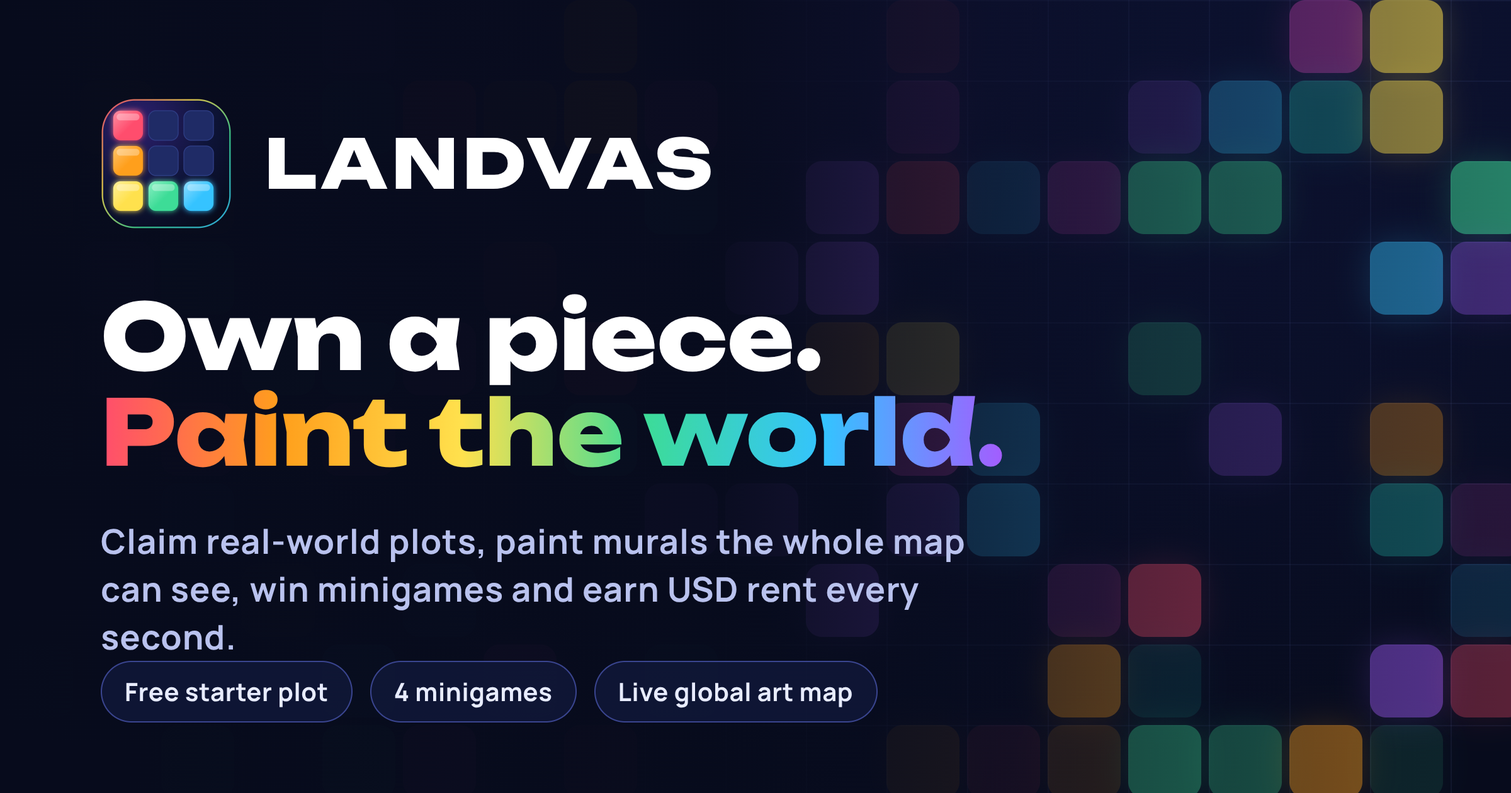
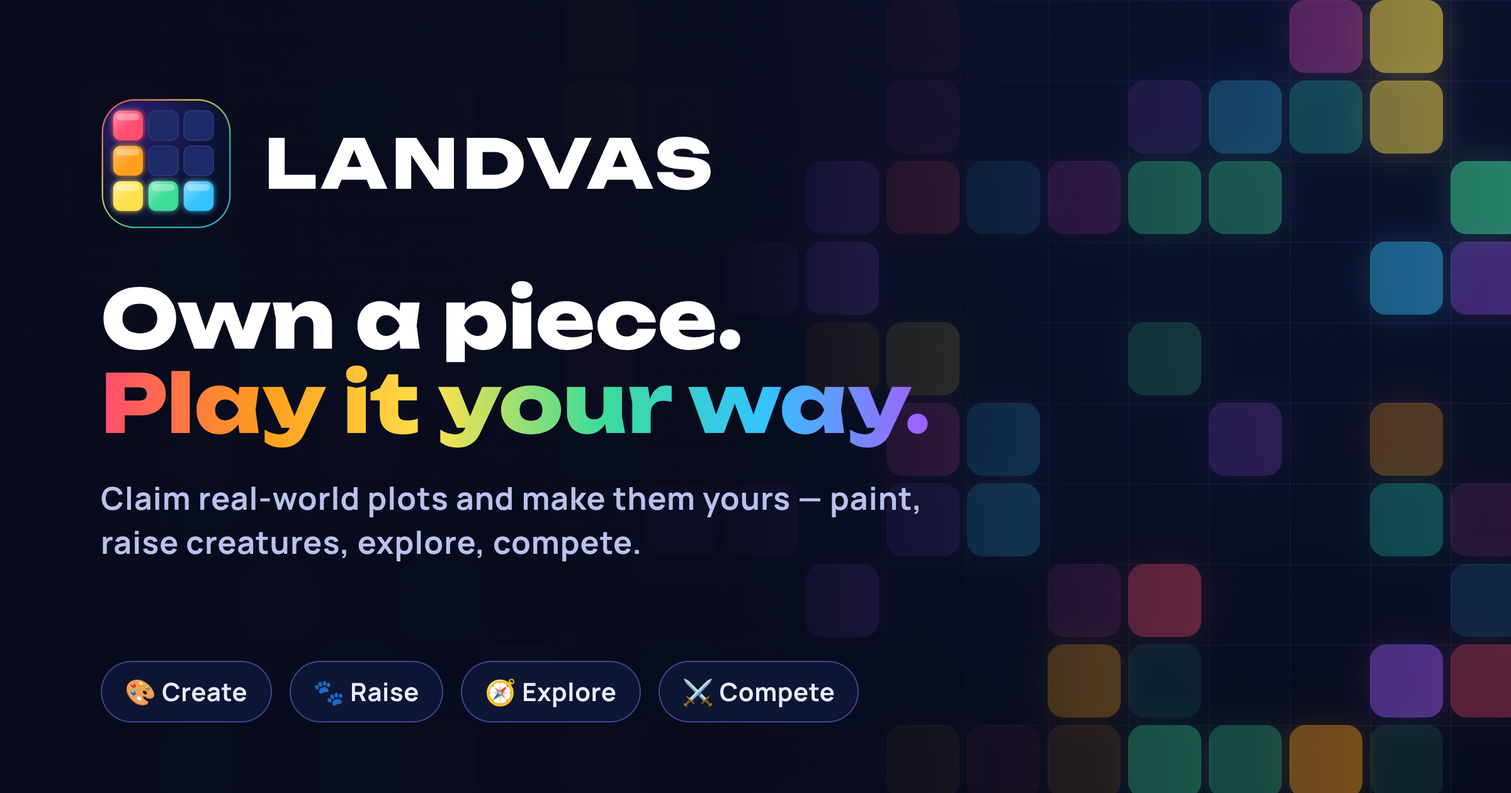
v0.24.1 rebrand: Own a piece. Play it your way. — a world-map game for every playstyle (creator, keeper, explorer, competitor, builder, socialite)
Claude-Session: https://claude.ai/code/session_01HBqLkZjhyC2XJFAdECqHWQ

Changed region(s): [[0.0625, 0.3405, 0.6875, 0.5881], [0.0625, 0.619, 0.6562, 0.8357], [0.0625, 0.8357, 0.5625, 0.8976]]

diff --git a/src/screens/Welcome.tsx b/src/screens/Welcome.tsx
@@ -2,7 +2,7 @@ import { useEffect, useRef, useState } from 'react';
 import { Link, useNavigate, useSearchParams } from 'react-router-dom';
 import { useQuery } from '@tanstack/react-query';
 import { AnimatePresence, motion } from 'motion/react';
-import { ArrowRight, Brush, Check, ChevronDown, CircleDollarSign, Eye, EyeOff, Gamepad2, Gift, Lightbulb, Mail, MapPinned, PartyPopper, Swords, Trophy, Users, Wand2 } from 'lucide-react';
+import { ArrowRight, Brush, Check, ChevronDown, CircleDollarSign, Eye, EyeOff, Gamepad2, Gift, Lightbulb, Mail, MapPinned, PartyPopper, PawPrint, Swords, Trophy, Users, Wand2 } from 'lucide-react';
 import { api } from '../backend/api';
 import { ArtMarquee, Earnings, HowItWorks, Minigames, Social, Footer } from '../home/HomePage';
 import { FAQ } from '../home/faq';
@@ -17,6 +17,7 @@ import type { PlotTypeId } from '../shared/grid';
 import { saveStorage } from '../lib/utils';
 import { pendingReferral } from '../social/referralStore';
 import { isNative } from '../native/native';
+import { PITCH, PLAYSTYLES, TAGLINE, TAGLINE_TEXT } from '../brand';
 
 /** A living canvas: plots claim themselves, fill with default designs and fuse into murals. */
 function LivingCanvas() {
@@ -99,7 +100,8 @@ const FEATURES = [
   { icon: Brush, color: '#FF4D6D', title: 'Paint with helpers', text: 'Brushes, layers and mirror mode, plus idea prompts, ready-made palettes, shade ramps and trace guides.' },
   { icon: Gamepad2, color: '#3DDC97', title: 'Eight minigames', text: 'Each plot hides a game. Clear rounds to earn Ink — the currency that buys the plots next door.' },
   { icon: Swords, color: '#FF9F1C', title: 'PvP minigames', text: 'Free head-to-head rounds against anonymous rivals for bonus Ink.' },
-  { icon: Wand2, color: '#7B5CFF', title: 'Murals across plots', text: 'Merge neighbouring plots and paint one continuous mural — up to thousands of plots wide.' },
+  { icon: PawPrint, color: '#3DDC97', title: 'Raise Inkborn', text: 'Draw a creature and it comes alive. Raise it in a woodland sanctuary, send it on jobs, and play games as it.' },
+  { icon: Wand2, color: '#7B5CFF', title: 'Grow your territory', text: 'Merge neighbouring plots into one giant mural or sanctuary — up to thousands of plots wide.' },
   { icon: CircleDollarSign, color: '#22C7B5', title: 'Rent every second', text: 'Your land earns USD rent around the clock. Boost it 20× once a day.' },
   { icon: Trophy, color: '#FFE14D', title: 'Daily wheel & challenges', text: 'Spin daily, enter weekly themed challenges, get featured, and earn for original craft.' },
   { icon: Users, color: '#FF4FD8', title: 'Friends pay off', text: 'Invite friends for an Ink bonus — and a share of what they earn while they play.' },
@@ -205,15 +207,16 @@ export function Welcome() {
                 <img src="/brand/landvas-multiverse-512.png" alt="" className={started ? 'relative h-20 w-20' : 'relative h-36 w-36 drop-shadow-[0_12px_50px_rgba(123,92,255,0.7)]'} />
               </div>
               <h1 className={`relative mt-4 font-display font-black tracking-[0.16em] ${started ? 'text-3xl' : 'text-5xl'}`}>LANDVAS</h1>
-              <p className="relative mt-2 font-display text-lg"><span className="lv-rainbow-anim font-bold">Own a piece. Paint the world.</span></p>
+              <p className="relative mt-2 font-display text-lg"><span className="lv-rainbow-anim font-bold">{TAGLINE_TEXT}</span></p>
+              {!started && <PlaystyleChips className="mt-5 justify-center" />}
               {!started && (
-                <div className="mt-10 grid w-full max-w-xs gap-3">
+                <div className="mt-8 grid w-full max-w-xs gap-3">
                   <motion.button whileTap={{ scale: 0.94 }} animate={{ scale: [1, 1.04, 1] }} transition={{ repeat: Infinity, duration: 1.8 }}
                     onClick={() => { setStarted(true); setTab('signup'); }} data-testid="title-play"
                     className="h-16 rounded-3xl bg-gradient-to-r from-[#FF4D6D] via-[#7B5CFF] to-[#34C3FF] font-display text-2xl font-black tracking-widest text-white shadow-[0_12px_40px_-10px_#7B5CFF]">PLAY</motion.button>
                   <button onClick={() => { setStarted(true); setTab('signin'); }} className="h-12 rounded-2xl bg-white/10 font-bold" data-testid="title-signin">I have an account</button>
                   <div className="mt-2 grid grid-cols-3 gap-2">
-                    {([['Artists', stats.data?.players], ['Artworks', stats.data?.artworks], ['Plots', stats.data?.plots]] as const).map(([l, v]) => (
+                    {([['Players', stats.data?.players], ['Artworks', stats.data?.artworks], ['Plots', stats.data?.plots]] as const).map(([l, v]) => (
                       <div key={l} className="lv-stat rounded-2xl px-2 py-2"><div className="font-display text-lg font-bold tnum">{v == null ? '—' : fmt(v)}</div><div className="eyebrow !text-[9px]">{l}</div></div>
                     ))}
                   </div>
@@ -224,15 +227,15 @@ export function Welcome() {
           <motion.section className="max-w-xl" initial={{ opacity: 0, y: 16 }} animate={{ opacity: 1, y: 0 }} transition={{ duration: 0.6 }}>
             <Link to="/" aria-label="LANDVAS home"><Wordmark /></Link>
             <h1 className="mt-8 font-display text-[clamp(2.2rem,6vw,4.2rem)] font-bold leading-[1.02]">
-              Own a piece.
+              {TAGLINE[0]}
               <br />
-              <span className="lv-rainbow-anim">Paint the world.</span>
+              <span className="lv-rainbow-anim">{TAGLINE[1]}</span>
             </h1>
             <p className="mt-5 max-w-md text-[17px] text-muted">
-              The planet is split into house-sized plots. Claim one for free, paint it, play its minigame for Ink, then grow it into a mural the whole world sees on the live map.
+              {PITCH}
             </p>
             <div className="mt-6 grid max-w-md grid-cols-3 gap-2" data-testid="welcome-stats">
-              {([['Artists', stats.data?.players], ['Artworks', stats.data?.artworks], ['Plots claimed', stats.data?.plots]] as const).map(([l, v]) => (
+              {([['Players', stats.data?.players], ['Artworks', stats.data?.artworks], ['Plots claimed', stats.data?.plots]] as const).map(([l, v]) => (
                 <div key={l} className="lv-stat rounded-2xl px-3 py-2.5"><div className="font-display text-xl font-bold tnum">{v == null ? '—' : fmt(v)}</div><div className="eyebrow !text-[10px]">{l}</div></div>
               ))}
             </div>
@@ -241,6 +244,7 @@ export function Welcome() {
                 <motion.li key={t} className="flex items-center gap-2" initial={{ opacity: 0, x: -10 }} animate={{ opacity: 1, x: 0 }} transition={{ delay: 0.3 + i * 0.12 }}><Check className="h-4 w-4 text-ok" /> {t}</motion.li>
               ))}
             </ul>
+            <PlaystyleChips className="mt-6" />
             <button onClick={() => document.getElementById('what')?.scrollIntoView({ behavior: 'smooth' })} className="mt-8 hidden items-center gap-1.5 text-sm font-bold text-muted hover:text-fg md:inline-flex">See everything you can do <ChevronDown className="h-4 w-4 animate-bounce" /></button>
           </motion.section>
           )}
@@ -251,7 +255,7 @@ export function Welcome() {
                   <motion.div initial={{ scale: 0, rotate: -30 }} animate={{ scale: 1, rotate: 0 }} transition={{ type: 'spring', stiffness: 260, damping: 14 }}
                     className="flex h-20 w-20 items-center justify-center rounded-full bg-gradient-to-br from-accent to-accent-2 text-white shadow-[0_0_60px_-10px_var(--accent)]"><PartyPopper className="h-10 w-10" /></motion.div>
                   <div className="font-display text-2xl font-bold">Welcome to LANDVAS!</div>
-                  <p className="text-sm text-muted">Your artist account is ready. Next: pick a name and your look.</p>
+                  <p className="text-sm text-muted">Your account is ready. Next: pick a name and your look.</p>
                 </motion.div>
               )}
             </AnimatePresence>
@@ -302,7 +306,7 @@ export function Welcome() {
               {notice && <p className="rounded-xl border border-line bg-surface/70 p-3 text-sm">{notice}</p>}
               <motion.div whileTap={{ scale: 0.98 }}>
                 <Button variant="primary" size="lg" className="w-full" loading={busy} type="submit">
-                  {tab === 'signup' ? 'Create my artist account' : 'Sign in'} <ArrowRight className="h-4 w-4" />
+                  {tab === 'signup' ? 'Create my account' : 'Sign in'} <ArrowRight className="h-4 w-4" />
                 </Button>
               </motion.div>
               {b.sendMagicLink && tab === 'signin' && (
@@ -343,6 +347,7 @@ export function Welcome() {
         <div className="mx-auto max-w-2xl text-center">
           <div className="eyebrow">What you can do</div>
           <h2 className="mt-2 font-display text-3xl font-bold md:text-5xl">One map. Endless ways to play.</h2>
+          <p className="mx-auto mt-3 max-w-xl text-muted">Painter, creature keeper, explorer, competitor, builder or collector — every playstyle has a home on the same living map.</p>
         </div>
         <div className="mt-10 grid gap-3 sm:grid-cols-2 lg:grid-cols-4">
           {FEATURES.map((f, i) => (
@@ -381,6 +386,20 @@ export function Welcome() {
       <Footer />
       </>}
       {config.isArtifact && <span className="sr-only">Playable build</span>}
+    </div>
+  );
+}
+
+/** Every way to play, at a glance. */
+export function PlaystyleChips({ className }: { className?: string }) {
+  return (
+    <div className={`flex flex-wrap gap-1.5 ${className ?? ''}`} data-testid="playstyles">
+      {PLAYSTYLES.map((p, i) => (
+        <motion.span key={p.id} initial={{ opacity: 0, y: 8 }} animate={{ opacity: 1, y: 0 }} transition={{ delay: 0.25 + i * 0.07 }}
+          className="inline-flex items-center gap-1 rounded-full px-2.5 py-1 text-xs font-bold" style={{ background: `${p.color}22`, color: p.color, boxShadow: `inset 0 0 0 1px ${p.color}55` }}>
+          {p.emoji} {p.title}
+        </motion.span>
+      ))}
     </div>
   );
 }

diff --git a/src/home/HomePage.tsx b/src/home/HomePage.tsx
@@ -18,6 +18,7 @@ import { RarityBadge } from '../plot/RarityBadge';
 import { ExplorerFigure } from '../explorer/ExplorerFigure';
 import { LogoMark } from '../ui';
 import { FAQ } from './faq';
+import { PLAYSTYLES, TAGLINE } from '../brand';
 import { FeaturedToday } from '../gallery/FeaturedToday';
 
 const signedIn = () => !!getBackend().session();
@@ -33,12 +34,13 @@ export default function HomePage() {
   const art = useQuery({ queryKey: ['home-art'], queryFn: () => api.galleryList('new', 36), refetchInterval: 60_000 });
   const cards = art.data ?? [];
   useEffect(() => {
-    document.title = 'LANDVAS — Own a piece. Paint the world. | Pixel art map game that pays rent';
+    document.title = 'LANDVAS — Own a piece. Play it your way. | The world-map game for every playstyle';
   }, []);
   return (
     <div className="lv-home min-h-full overflow-x-hidden bg-bg text-fg" data-testid="homepage">
       <TopBar />
       <Hero stats={stats.data} cards={cards} />
+      <Playstyles />
       <div className="gutter mx-auto max-w-7xl pt-12"><FeaturedToday /></div>
       <ArtMarquee cards={cards} loading={art.isLoading} />
       <HowItWorks />
@@ -102,13 +104,13 @@ function Hero({ stats, cards }: { stats?: { players: number; artworks: number; p
       <div className="gutter mx-auto grid max-w-7xl gap-10 pb-16 pt-14 md:pb-24 md:pt-24 lg:grid-cols-[1.15fr_1fr] lg:items-center">
         <div>
           <div className="lv-pill inline-flex items-center gap-2 rounded-full px-3 py-1.5 text-xs font-bold">
-            <span className="lv-dot" /> The world map is live — {stats && stats.players > 1 ? `${fmt(stats.players)} artists playing` : 'be one of the first artists'}
+            <span className="lv-dot" /> The world map is live — {stats && stats.players > 1 ? `${fmt(stats.players)} players on the map` : 'be one of the first players'}
           </div>
           <h1 className="mt-6 font-display text-[clamp(2.6rem,6.2vw,5rem)] font-bold leading-[0.98] tracking-tight">
-            Own a piece.<br /><span className="lv-rainbow-anim">Paint the world.</span>
+            {TAGLINE[0]}<br /><span className="lv-rainbow-anim">{TAGLINE[1]}</span>
           </h1>
           <p className="mt-6 max-w-xl text-[17px] leading-relaxed text-muted md:text-lg">
-            LANDVAS splits the real world into house-sized plots. Claim the ones around you, paint them into murals everyone sees on the live map, win minigames for Ink — and watch your land earn <b className="text-fg">USD rent every second</b>.
+            LANDVAS turns the real world into one giant game board. Claim the plots around you, then make them anything — a mural, a creature sanctuary, a minigame arena — while your land earns <b className="text-fg">USD rent every second</b>.
           </p>
           <div className="mt-8 flex flex-wrap gap-3">
             <Link to={playHref()} className="lv-cta group inline-flex h-14 items-center gap-2 rounded-2xl px-7 text-base font-extrabold text-white">
@@ -294,17 +296,40 @@ function MarqueeCard({ c }: { c: ArtworkCard }) {
 
 const STEPS = [
   { icon: MapPinned, title: 'Claim real-world plots', body: 'The planet is a grid of 4.3 billion house-sized plots. Your first 4 are free. Every plot is a mystery until you claim it — Common to Mythic.', color: '#3DDC97' },
-  { icon: Brush, title: 'Paint what everyone sees', body: 'Draw or upload art on a real editor with brushes, layers and symmetry. Publish it and it appears on the live world map for every player.', color: '#FF4D6D' },
+  { icon: Brush, title: 'Make it anything', body: 'Paint a mural everyone sees on the live map, or turn the plot into a living sanctuary for creatures you designed. Switch any time.', color: '#FF4D6D' },
   { icon: Gamepad2, title: 'Win Ink in minigames', body: 'Each plot hosts one of eight skill games. Wins pay Ink — the currency that buys more land, brushes, colours and explorer looks.', color: '#34C3FF' },
-  { icon: Sparkles, title: 'Grow murals & earn rent', body: 'Connect neighbouring plots into one continuous canvas. Every plot you own earns USD rent each second, by its rarity.', color: '#FFB31F' },
+  { icon: Sparkles, title: 'Grow your territory', body: 'Connect neighbouring plots into giant murals and sanctuaries. Every plot you own earns USD rent each second, by its rarity.', color: '#FFB31F' },
 ];
+
+/** Every way to play LANDVAS, each with its own door into the game. */
+export function Playstyles() {
+  return (
+    <section className="gutter mx-auto max-w-7xl pt-16" aria-labelledby="playstyles" data-testid="home-playstyles">
+      <div className="mx-auto max-w-2xl text-center">
+        <div className="eyebrow">Every playstyle</div>
+        <h2 id="playstyles" className="mt-2 font-display text-3xl font-bold md:text-5xl">How will you play?</h2>
+        <p className="mt-3 text-muted">One living map, six ways to make it yours. Mix them however you like.</p>
+      </div>
+      <div className="mt-10 grid gap-3 sm:grid-cols-2 lg:grid-cols-3">
+        {PLAYSTYLES.map((p) => (
+          <Link key={p.id} to={signedIn() ? p.to : playHref()} className="glass group relative overflow-hidden rounded-3xl p-5 transition hover:-translate-y-1" style={{ boxShadow: `inset 0 0 0 1px ${p.color}33` }}>
+            <div className="pointer-events-none absolute -right-10 -top-10 h-32 w-32 rounded-full opacity-40 blur-2xl transition group-hover:opacity-70" style={{ background: p.color }} />
+            <div className="relative text-4xl">{p.emoji}</div>
+            <h3 className="relative mt-3 font-display text-xl font-bold" style={{ color: p.color }}>{p.title}</h3>
+            <p className="relative mt-1.5 text-[15px] leading-relaxed text-muted">{p.text}</p>
+          </Link>
+        ))}
+      </div>
+    </section>
+  );
+}
 
 export function HowItWorks() {
   return (
     <section className="gutter mx-auto max-w-7xl py-20" aria-labelledby="how">
       <div className="mx-auto max-w-2xl text-center">
         <div className="eyebrow">How it works</div>
-        <h2 id="how" className="mt-2 font-display text-3xl font-bold md:text-5xl">A map you can own, paint and play</h2>
+        <h2 id="how" className="mt-2 font-display text-3xl font-bold md:text-5xl">A world you can own, build and play</h2>
       </div>
       <div className="mt-12 grid gap-4 sm:grid-cols-2 lg:grid-cols-4">
         {STEPS.map((s, i) => (

diff --git a/index.html b/index.html
@@ -3,9 +3,9 @@
   <head>
     <meta charset="UTF-8" />
     <meta name="viewport" content="width=device-width, initial-scale=1, viewport-fit=cover" />
-    <title>LANDVAS — Own a piece. Paint the world. | Map art game that pays rent</title>
-    <meta name="description" content="LANDVAS is a free map art game: claim real-world plots, paint pixel art murals the whole world sees on a live map, win minigames for Ink and earn USD rent every second. Your first 4 plots are free." />
-    <meta name="keywords" content="LANDVAS, landvas game, map art game, pixel art game, location based game, claim land game, earn rent game, Atlas Earth alternative, r/place, collaborative mural, virtual land, minigames" />
+    <title>LANDVAS — Own a piece. Play it your way. | The world-map game for every playstyle</title>
+    <meta name="description" content="LANDVAS is a free world-map game you play your way: claim real-world plots, then paint murals, raise creatures, battle in minigames and PvP, explore, collect and build a rent-earning empire. Your first 4 plots are free." />
+    <meta name="keywords" content="LANDVAS, landvas game, world map game, location based game, creature game, pixel art game, map art game, pixel art game, location based game, claim land game, earn rent game, Atlas Earth alternative, r/place, collaborative mural, virtual land, minigames" />
     <meta name="theme-color" content="#0A0F24" />
     <meta name="application-name" content="LANDVAS" />
     <meta name="apple-mobile-web-app-title" content="LANDVAS" />
@@ -21,14 +21,14 @@
     <meta property="og:type" content="website" />
     <meta property="og:site_name" content="LANDVAS" />
     <meta property="og:url" content="https://landvas.app/" />
-    <meta property="og:title" content="LANDVAS — Own a piece. Paint the world." />
+    <meta property="og:title" content="LANDVAS — Own a piece. Play it your way." />
     <meta property="og:description" content="Claim real-world plots, paint murals the whole map can see, win minigames and earn USD rent every second. Free to play." />
     <meta property="og:image" content="https://landvas.app/og-image.png" />
     <meta property="og:image:width" content="1200" />
     <meta property="og:image:height" content="630" />
-    <meta property="og:image:alt" content="LANDVAS — Own a piece. Paint the world." />
+    <meta property="og:image:alt" content="LANDVAS — Own a piece. Play it your way." />
     <meta name="twitter:card" content="summary_large_image" />
-    <meta name="twitter:title" content="LANDVAS — Own a piece. Paint the world." />
+    <meta name="twitter:title" content="LANDVAS — Own a piece. Play it your way." />
     <meta name="twitter:description" content="Claim real-world plots, paint murals the whole map can see, win minigames and earn USD rent every second." />
     <meta name="twitter:image" content="https://landvas.app/og-image.png" />
     <script type="application/ld+json">{"@context": "https://schema.org", "@type": "WebSite", "@id": "https://landvas.app/#website", "name": "LANDVAS", "alternateName": ["Landvas", "LANDVAS game"], "url": "https://landvas.app/", "description": "LANDVAS is a free map art game: claim real-world plots, paint pixel art murals the whole world sees on a live map, win minigames for Ink and earn USD rent every second. Your first 4 plots are free."}</script>
@@ -40,12 +40,12 @@
     <div id="root">
       <!-- Shown until the game loads (and to crawlers that don't run scripts). -->
       <main style="max-width:760px;margin:0 auto;padding:64px 20px;font-family:system-ui,sans-serif;color:#eef1ff;background:#070b1c">
-        <h1>LANDVAS — Own a piece. Paint the world.</h1>
-        <p>LANDVAS is a free map art game: claim real-world plots, paint pixel art murals the whole world sees on a live map, win minigames for Ink and earn USD rent every second. Your first 4 plots are free.</p>
+        <h1>LANDVAS — Own a piece. Play it your way.</h1>
+        <p>LANDVAS is a free world-map game you play your way: claim real-world plots, then paint murals, raise creatures, battle in minigames and PvP, explore, collect and build a rent-earning empire. Your first 4 plots are free.</p>
         <h2>How LANDVAS works</h2>
         <ul>
           <li><strong>Claim real-world plots.</strong> The planet is divided into 4.3 billion house-sized plots. Your first 4 plots are free, and every plot's type and rarity (Common, Rare, Epic, Legendary or Mythic) is a surprise until you claim it.</li>
-          <li><strong>Paint pixel art and murals.</strong> Draw or upload artwork with brushes, layers and symmetry, connect neighbouring plots into one continuous canvas, and publish it to the live world map.</li>
+          <li><strong>Make it yours — any way you like.</strong> Paint pixel art and murals, raise Inkborn creatures in a living sanctuary, or turn your land into a rent-earning empire. Draw or upload artwork with brushes, layers and symmetry, connect neighbouring plots into one continuous canvas, and publish it to the live world map.</li>
           <li><strong>Win minigames for Ink.</strong> Eight plot minigames — TraceCraft, ColorBurst, Paint Pop, LightLines, Memory Mural, Sculptor, Roller Mural and Mirrorline — plus free PvP minigames like Copy Cat pay Ink, the currency for more land, art tools and explorer outfits.</li>
           <li><strong>Earn USD rent every second.</strong> Every plot earns rent by rarity, with a free daily 20× boost. Convert rent to Ink at $1 = 100 Ink from just $0.01.</li>
           <li><strong>Play together.</strong> Visit artists' rooms, chat with the world, add friends and earn Ink for every friend you invite — plus a share of what they earn.</li>

diff --git a/src/brand.ts b/src/brand.ts
@@ -1,0 +1,15 @@
+// How LANDVAS describes itself, in one place: the world is the game board, and every
+// playstyle has a home here — creators, keepers, explorers, competitors, builders, collectors.
+export const TAGLINE = ['Own a piece.', 'Play it your way.'] as const;
+export const TAGLINE_TEXT = TAGLINE.join(' ');
+export const PITCH = 'LANDVAS turns the real world into one giant game board. Claim the plots around you, then make them anything — a mural, a creature sanctuary, a rent-earning empire, a minigame arena.';
+
+export type Playstyle = { id: string; emoji: string; title: string; text: string; color: string; to: string };
+export const PLAYSTYLES: Playstyle[] = [
+  { id: 'creator', emoji: '🎨', title: 'Creator', text: 'Paint murals the whole world sees, sketch the daily word and team up on duets.', color: '#FF4D6D', to: '/canvases' },
+  { id: 'keeper', emoji: '🐾', title: 'Keeper', text: 'Draw creatures that come alive and raise them in sanctuaries you design.', color: '#3DDC97', to: '/inkborn' },
+  { id: 'explorer', emoji: '🧭', title: 'Explorer', text: 'Walk the real world, uncover mystery plots and hunt for Mythic rarities.', color: '#34C3FF', to: '/world' },
+  { id: 'competitor', emoji: '⚔', title: 'Competitor', text: 'Clear minigames, win PvP duels and climb the weekly leaderboards.', color: '#FFB31F', to: '/play' },
+  { id: 'builder', emoji: '🏰', title: 'Builder', text: 'Grow an empire of plots, merge them into giant territories and collect rent.', color: '#A45CFF', to: '/world' },
+  { id: 'collector', emoji: '🤝', title: 'Socialite', text: 'Visit rooms, collect stamps, make friends and inspire other players.', color: '#FF4FD8', to: '/social' },
+];

diff --git a/src/home/faq.ts b/src/home/faq.ts
@@ -1,7 +1,7 @@
 // Homepage FAQ. Also emitted as FAQPage structured data in index.html, so keep the
 // two in sync (scripts/check-seo is not needed: the text below is the source).
 export const FAQ: { q: string; a: string }[] = [
-  { q: 'What is LANDVAS?', a: 'LANDVAS is a free map-based art game. The real world is divided into 4.3 billion house-sized plots. You claim plots near you, paint pixel art and murals on them that every player sees on the live world map, play minigames to earn Ink, and your land earns USD rent every second.' },
+  { q: 'What is LANDVAS?', a: 'LANDVAS is a free world-map game you play your way. The real world is divided into 4.3 billion house-sized plots. Claim the plots near you, then make them anything: paint murals every player sees on the live map, turn them into sanctuaries for creatures you design, battle in minigames and PvP, collect art, or grow a territory that earns USD rent every second.' },
   { q: 'Is LANDVAS free to play?', a: 'Yes. Your first 4 plots are free, and everything else is earned by playing: win minigames for Ink, invite friends, and convert your rent into Ink. Ink can’t be bought with money.' },
   { q: 'How do plots earn money?', a: 'Every plot you own earns USD rent each second at a rate set by its rarity — Common, Rare, Epic, Legendary or Mythic. A free daily boost multiplies all your rent by 20× for a while, and plot upgrades add +1% per level. Rates can change and rent is a game reward, not an investment.' },
   { q: 'Can I cash out my rent?', a: 'Cash-out isn’t available yet. Until it is, you can convert rent into Ink at $1 = 100 Ink, starting from just $0.01, and spend it on more plots, art tools and explorer outfits.' },

diff --git a/src/app/App.tsx b/src/app/App.tsx
@@ -93,7 +93,7 @@ function OnboardingGate() {
 }
 
 const TITLES: [RegExp, string][] = [
-  [/^\/world/, 'Live world map'], [/^\/gallery/, 'Gallery — the newest map art'], [/^\/players/, 'Players'], [/^\/social/, 'Social — live feed, chat & friends'],
+  [/^\/world/, 'Live world map'], [/^\/gallery/, 'Gallery — the newest art on the map'], [/^\/players/, 'Players'], [/^\/social/, 'Social — live feed, chat & friends'],
   [/^\/inkborn/, 'Inkborn — draw a creature, watch it come alive'], [/^\/habitat/, 'Inkborn sanctuary'], [/^\/play/, 'Minigames'], [/^\/welcome/, 'Play free — create your account'], [/^\/u\/[^/]+\/room/, 'Visit room'], [/^\/u\//, 'Artist profile'],
   [/^\/art\//, 'Artwork'], [/^\/legal\//, 'Legal'], [/^\/invite/, 'Invite friends'], [/^\/explorer/, 'Your explorer'], [/^\/inventory/, 'Studio'], [/^\/support/, 'Support'], [/^\/pvp/, 'PvP minigames'], [/^\/challenges/, 'Weekly challenges'],
 ];
@@ -103,7 +103,7 @@ function RouteMeta() {
   useEffect(() => {
     const path = loc.pathname;
     const t = TITLES.find(([re]) => re.test(path))?.[1];
-    if (path !== '/') document.title = t ? `${t} · LANDVAS` : 'LANDVAS — Own a piece. Paint the world.';
+    if (path !== '/') document.title = t ? `${t} · LANDVAS` : 'LANDVAS — Own a piece. Play it your way.';
     const url = `https://landvas.app${path === '/' ? '/' : path}`;
     document.querySelector('link[rel=canonical]')?.setAttribute('href', url);
     document.querySelector('meta[property="og:url"]')?.setAttribute('content', url);

diff --git a/src/profile/MeHub.tsx b/src/profile/MeHub.tsx
@@ -38,7 +38,7 @@ export default function MeHub() {
     { to: `/u/${p.username}/room`, label: 'My room', icon: DoorOpen, hint: 'What visitors see' },
     { to: '/social', label: 'Social', icon: MessagesSquare, hint: 'Feed, chat, friends' },
     { to: '/achievements', label: 'Badges', icon: Award, hint: `${me.achievement_count} unlocked` },
-    { to: '/leaderboards', label: 'Rankings', icon: Trophy, hint: 'Top landholders & artists' },
+    { to: '/leaderboards', label: 'Rankings', icon: Trophy, hint: 'Top players' },
     { to: `/u/${p.username}`, label: 'Public profile', icon: Brush, hint: 'What others see' },
     { to: '/settings', label: 'Settings', icon: SettingsIcon, hint: 'Theme, GPS, tabs, account' },
     { to: '/pvp', label: 'PvP minigames', icon: Gamepad2, hint: 'Free head-to-head games' },

diff --git a/src/play/PlayEarn.tsx b/src/play/PlayEarn.tsx
@@ -130,7 +130,7 @@ export default function PlayEarn() {
         <motion.div key={tab} initial={{ opacity: 0, y: 10 }} animate={{ opacity: 1, y: 0 }} exit={{ opacity: 0, y: -6 }} transition={{ duration: 0.18 }}>
           {tab === 'mine' ? <MyCreations /> : (
             <>
-              <div className="grid gap-3 sm:grid-cols-2 lg:grid-cols-3" data-testid={`earn-cards-${tab}`}>
+              <div className="grid grid-cols-1 gap-3 sm:grid-cols-2 lg:grid-cols-3" data-testid={`earn-cards-${tab}`}>
                 {cards[tab].map((c, i) => <EarnCard key={c.key} c={c} i={i} />)}
               </div>
               {tab === 'games' && <div className="mt-6"><h2 className="mb-2 font-display text-lg font-semibold">Your plots’ minigames</h2><MinigameGrid /></div>}

diff --git a/vite.config.ts b/vite.config.ts
@@ -58,9 +58,9 @@ export default defineConfig(({ mode }) => {
           injectRegister: false,
           includeAssets: ['favicon.svg', 'favicon.ico', 'favicon-*.png', 'icons/*.png'],
           manifest: {
-            name: 'LANDVAS — Own a piece. Paint the world.',
+            name: 'LANDVAS — Own a piece. Play it your way.',
             short_name: 'LANDVAS',
-            description: 'Claim virtual plots on a world map, fuse them into continuous canvases and paint murals everyone can see.',
+            description: 'The world-map game you play your way: claim plots, then paint, raise creatures, battle, explore and collect.',
             theme_color: '#0A0F24',
             background_color: '#070B1C',
             display: 'standalone',

diff --git a/src/ui/index.tsx b/src/ui/index.tsx
@@ -175,7 +175,7 @@ export function Field({ label, hint, error, children, htmlFor }: { label: string
 export const RESOURCE_META: Record<Resource, { name: string; color: string; hint: string }> = {
   ink: { name: 'Ink', color: '#34C3FF', hint: 'Primary currency: buy plots and upgrades.' },
   pigments: { name: 'Pigments', color: '#FF4FD8', hint: 'Unlock brushes, palettes and finishes.' },
-  brush_points: { name: 'Brush Points', color: '#FFC93D', hint: 'Creative experience — raises your artist level.' },
+  brush_points: { name: 'Brush Points', color: '#FFC93D', hint: 'Creative experience — raises your level.' },
   gallery_tokens: { name: 'Gallery Tokens', color: '#3DDC97', hint: 'Earned through approved art and achievements.' },
 };
 

diff --git a/src/screens/Onboarding.tsx b/src/screens/Onboarding.tsx
@@ -92,7 +92,7 @@ export function Onboarding() {
           <motion.div className="h-full rounded-full bg-gradient-to-r from-accent via-gold to-accent-2" animate={{ width: `${10 + progress * 45}%` }} transition={{ type: 'spring', stiffness: 120, damping: 18 }} />
         </div>
         <motion.div initial={{ opacity: 0, y: 12 }} animate={{ opacity: 1, y: 0 }}>
-          <div className="eyebrow">Step 1 of 2 · Your artist identity</div>
+          <div className="eyebrow">Step 1 of 2 · Your player identity</div>
           <h1 className="mt-2 font-display text-3xl font-bold">Sign your work</h1>
           <p className="mt-2 text-muted">This name appears beside every plot you own and every mural you publish.</p>
         </motion.div>

diff --git a/src/tour/Tour.tsx b/src/tour/Tour.tsx
@@ -88,7 +88,7 @@ export function Tour() {
           </div>
           {step > 0 && <Button size="sm" variant="ghost" onClick={() => set({ step: step - 1 })} aria-label="Back"><ArrowLeft className="h-4 w-4" /></Button>}
           <Button variant={last ? 'rainbow' : 'primary'} onClick={() => (last ? finish(true) : set({ step: step + 1 }))} data-testid="tour-next">
-            {last ? 'Let’s paint!' : step === 0 ? 'Show me around' : 'Next'} <ArrowRight className="h-4 w-4" />
+            {last ? 'Let’s play!' : step === 0 ? 'Show me around' : 'Next'} <ArrowRight className="h-4 w-4" />
           </Button>
         </div>
       </motion.div>
